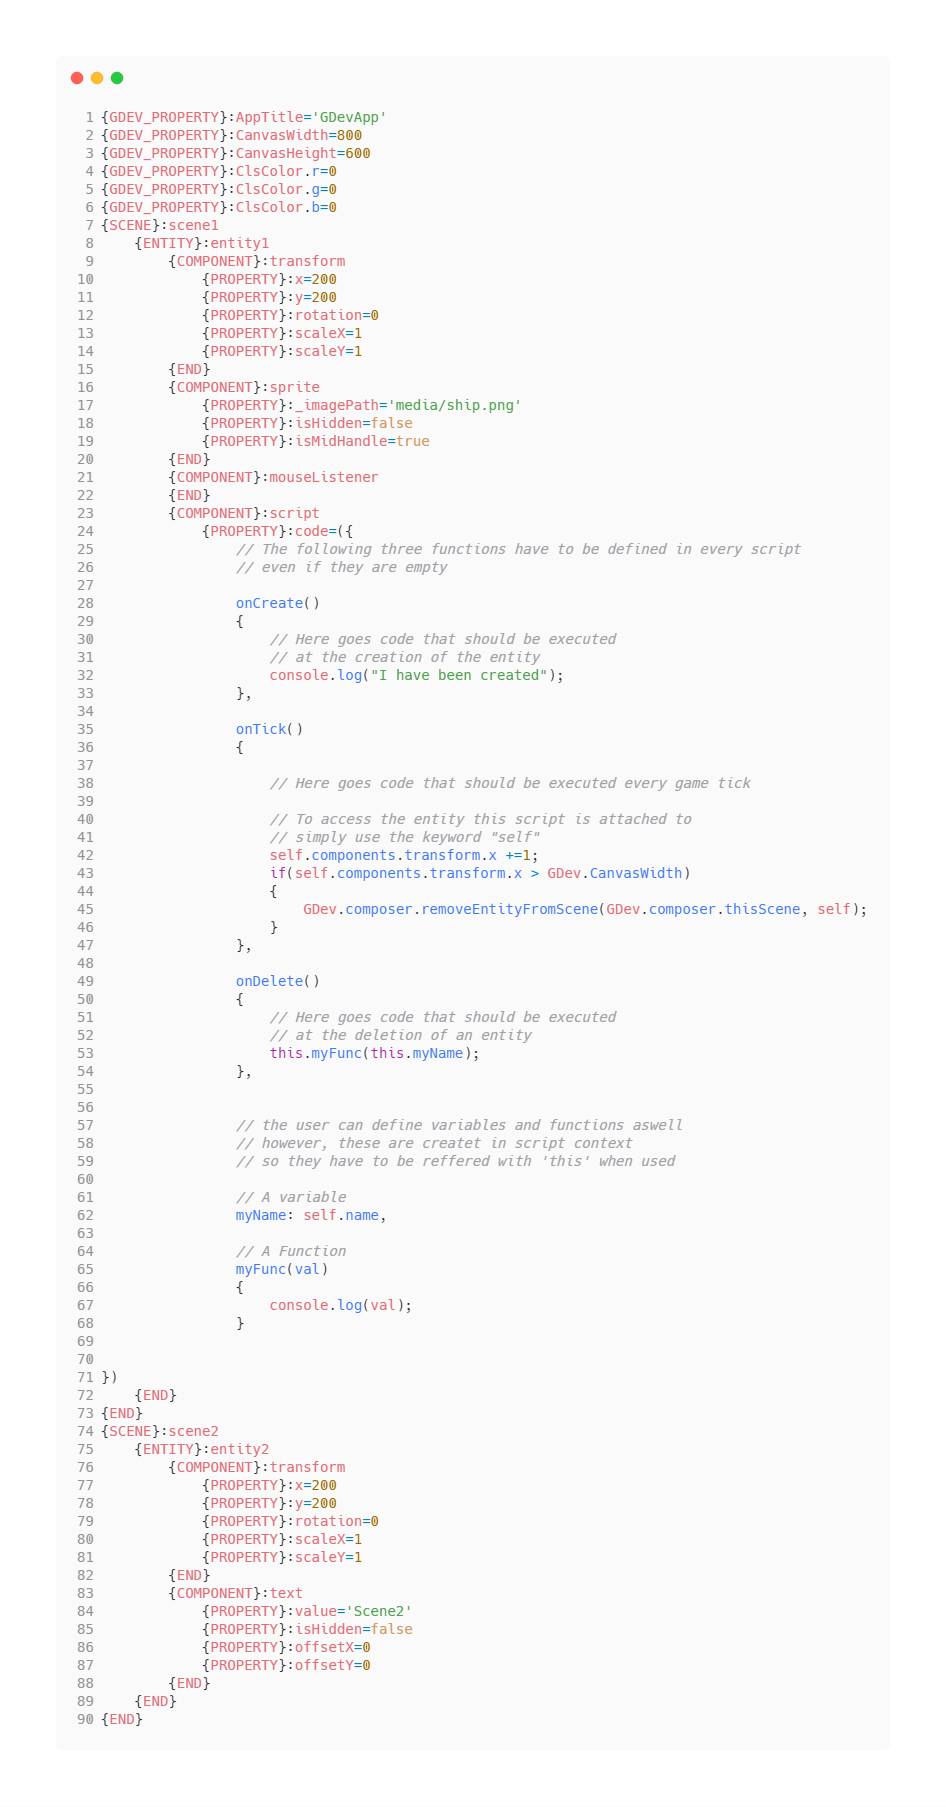
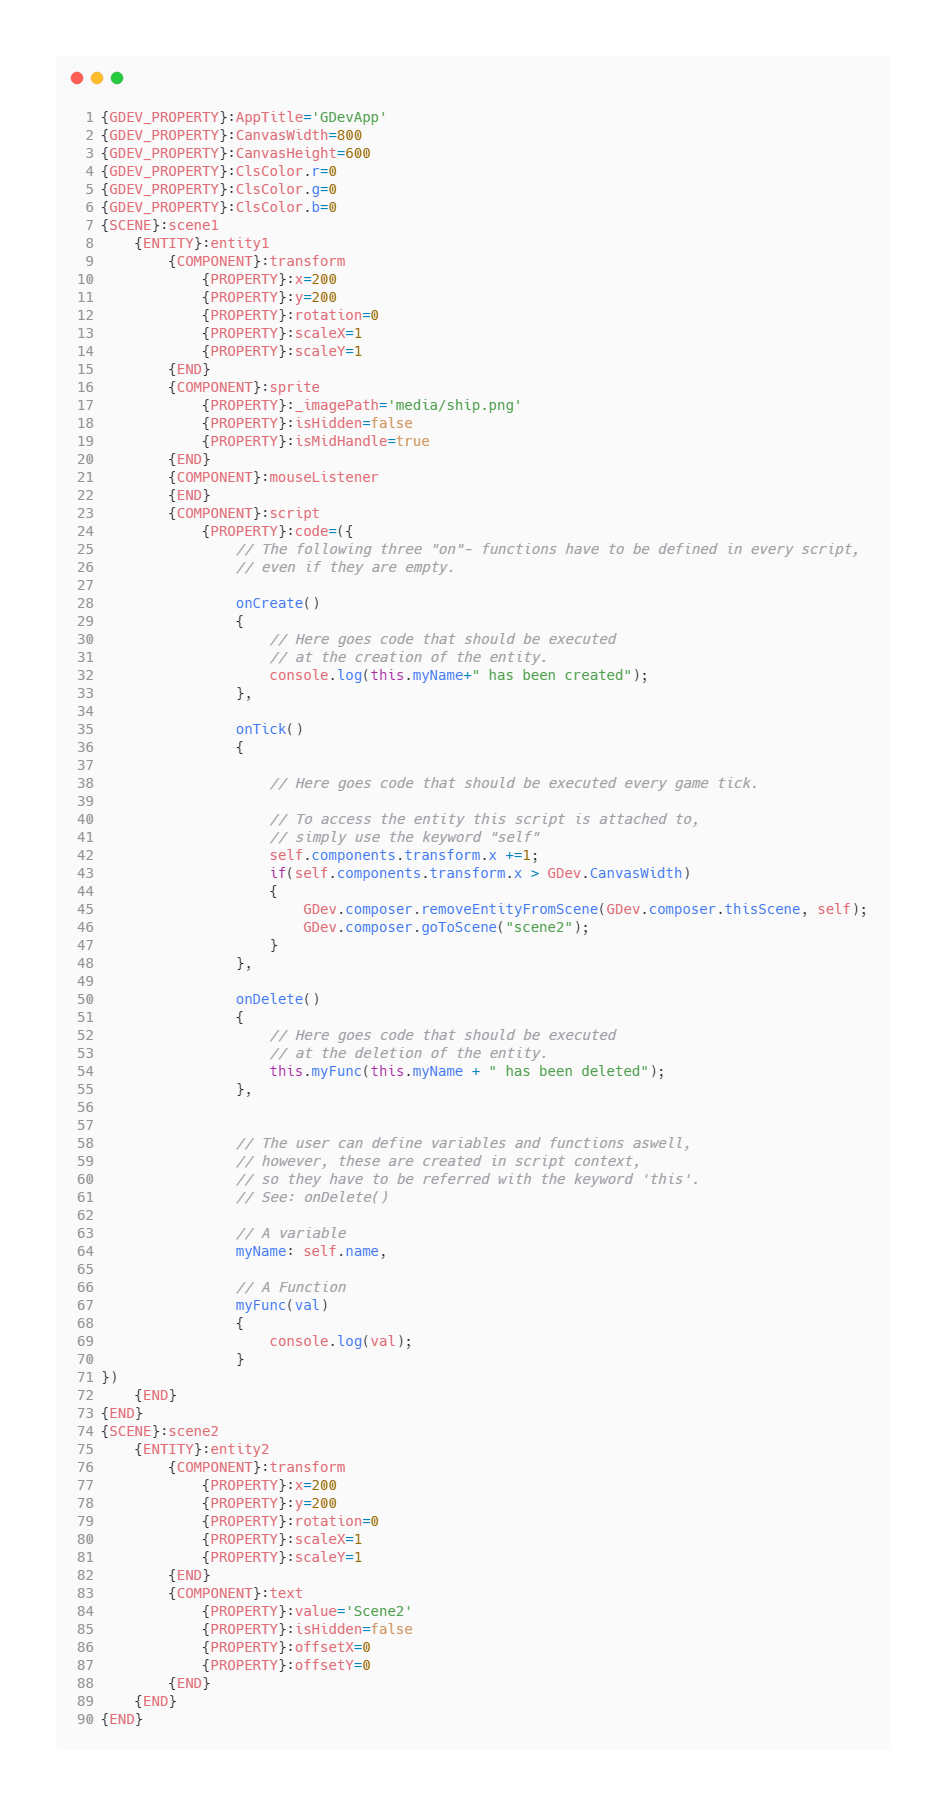
Update doc

Changed region(s): [[0.2452, 0.6198, 0.7357, 0.7438], [0.2452, 0.5268, 0.6438, 0.5888], [0.4292, 0.3719, 0.4598, 0.4029]]

diff --git a/example/game.js b/example/game.js
@@ -30,41 +30,43 @@ entity1.addComponent(new GDev.ECS.Components.Transform(200,200,0,1,1));
 entity1.addComponent(new GDev.ECS.Components.Sprite('media/ship.png',false,true));
 entity1.addComponent(new GDev.ECS.Components.MouseListener());
 entity1.addComponent(new GDev.ECS.Components.Script(`({
-				// The following three functions have to be defined in every script
-				// even if they are empty
+				// The following three "on"- functions have to be defined in every script,
+				// even if they are empty.
 
 				onCreate()
 				{
 					// Here goes code that should be executed
-					// at the creation of the entity
-					console.log("I have been created");
+					// at the creation of the entity.
+					console.log(this.myName+" has been created");
 				},
 
 				onTick()
 				{
 
-					// Here goes code that should be executed every game tick
+					// Here goes code that should be executed every game tick.
 
-					// To access the entity this script is attached to
+					// To access the entity this script is attached to,
 					// simply use the keyword "self"
 					self.components.transform.x +=1;
 					if(self.components.transform.x > GDev.CanvasWidth)
 					{
 						GDev.composer.removeEntityFromScene(GDev.composer.thisScene, self);
+                    	GDev.composer.goToScene("scene2");
 					}
 				},
 				
 				onDelete()
 				{
 					// Here goes code that should be executed
-					// at the deletion of an entity
-					this.myFunc(this.myName);
+					// at the deletion of the entity.
+					this.myFunc(this.myName + " has been deleted");
 				},
 				
 				
-				// the user can define variables and functions aswell
-				// however, these are createt in script context
-				// so they have to be reffered with 'this' when used
+				// The user can define variables and functions aswell,
+				// however, these are created in script context,
+				// so they have to be referred with the keyword 'this'.
+  				// See: onDelete()
 				
 				// A variable
 				myName: self.name,
@@ -74,8 +76,6 @@ entity1.addComponent(new GDev.ECS.Components.Script(`({
 				{
 					console.log(val);
 				}
-				
-		
 })
 `));
 // Add entity to scene
